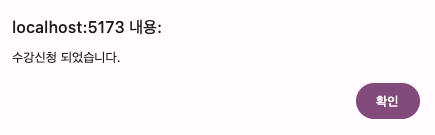
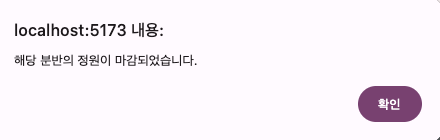
refactor: 알림창 횟수 변경에 따른 소개 페이지 이미지, 문구 변경

diff --git a/src/components/Intro.tsx b/src/components/Intro.tsx
@@ -35,7 +35,7 @@ const Intro: React.FC<IntroProps> = ({ onCoursesClick }) => {
       },
       {
         title: "수강신청",
-        description: "수강신청 버튼을 누르면 다음과 같은 알림창이 나와요!(현실반영)",
+        description: "수강신청 버튼을 누르면 다음과 같은 알림창이 나와요!(성공 시 1번, 실패 시 2번)",
         images: ["/register_alert1.png", "/register_alert2.png"],
       },
       {
